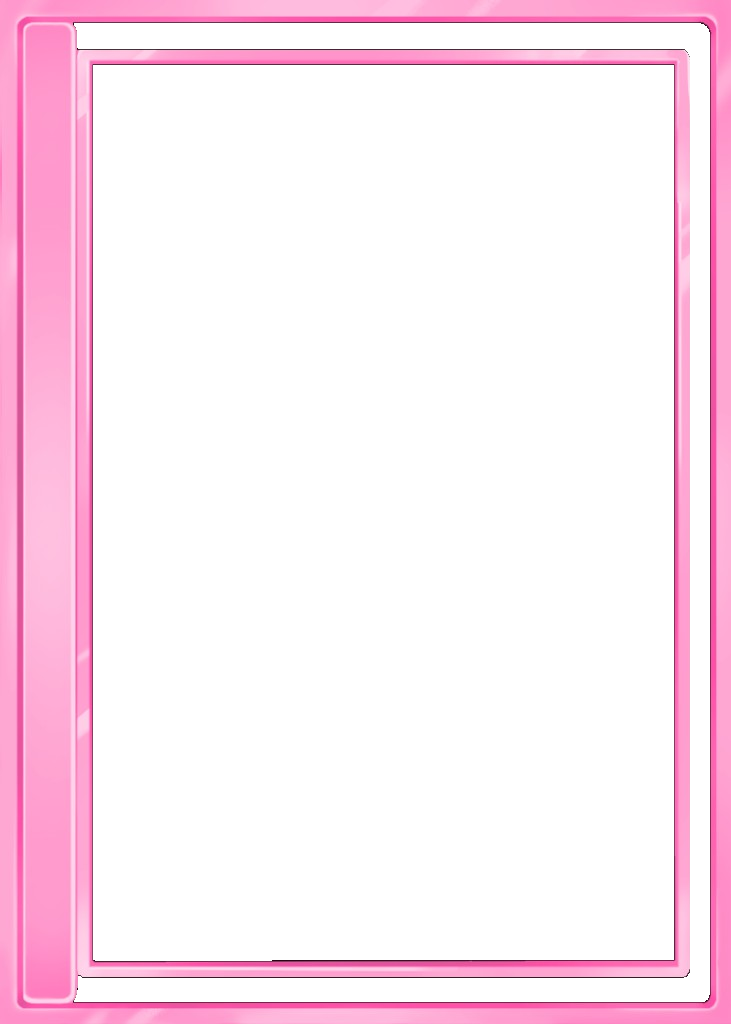
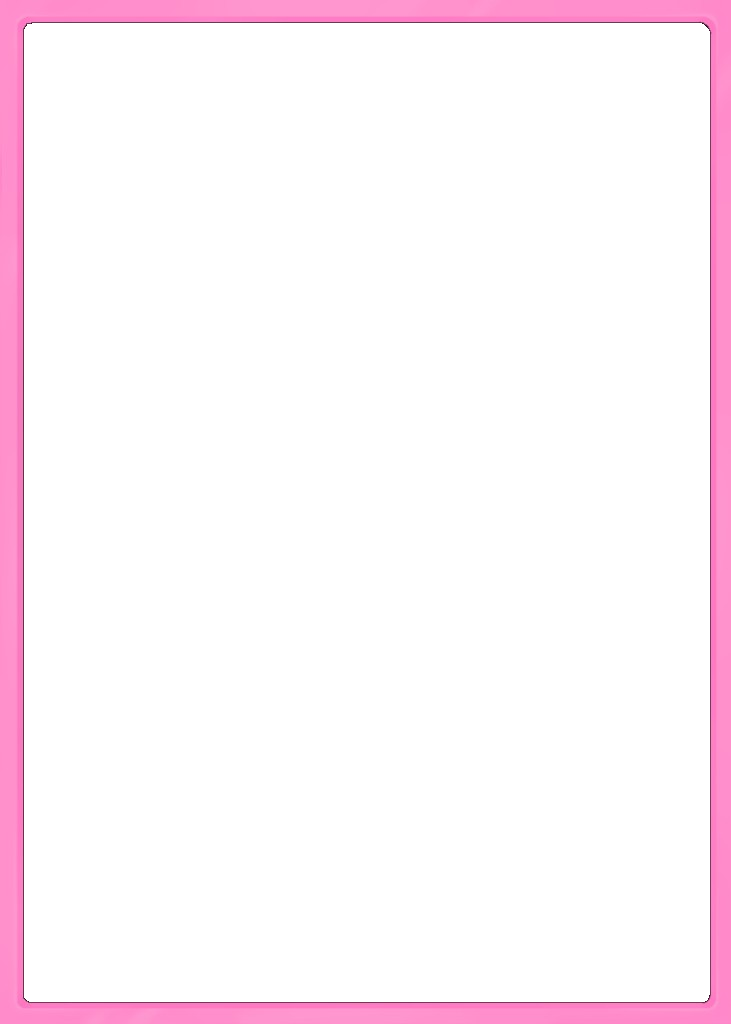
Replace Radiance frame PNGs with updated border art.
Process transparent centers and bump frame asset cache to 3.1.

Changed region(s): [[0.0, 0.0, 1.0, 1.0], [0.9631, 0.9688, 0.9932, 1.0]]

diff --git a/docs/js/prestige-utils.js b/docs/js/prestige-utils.js
@@ -37,7 +37,7 @@ export const EVOLUTION_LABELS = Object.freeze({
 export const FUSION_LABELS = EVOLUTION_LABELS;
 
 /** Bump when Radiance PNG assets change (cache bust). */
-export const PRESTIGE_FRAME_ASSET_VERSION = '3.0';
+export const PRESTIGE_FRAME_ASSET_VERSION = '3.1';
 
 const LEGACY_TIER_MAP = Object.freeze({
   standard: 'stardust',
